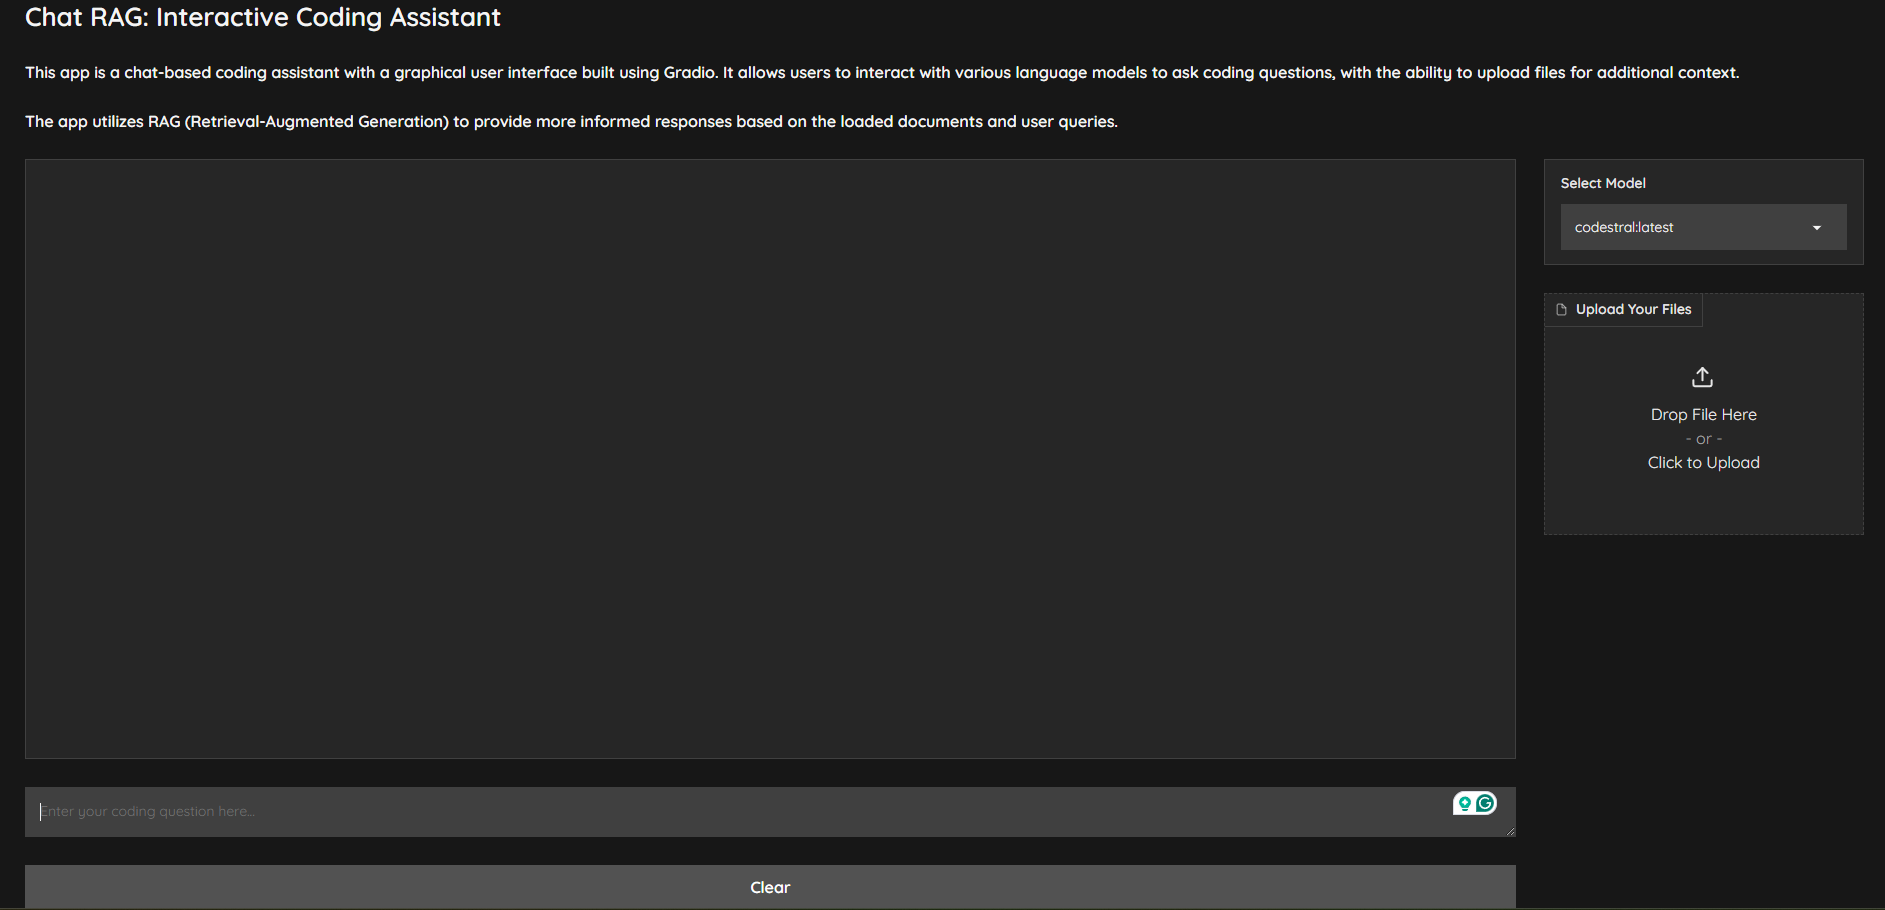
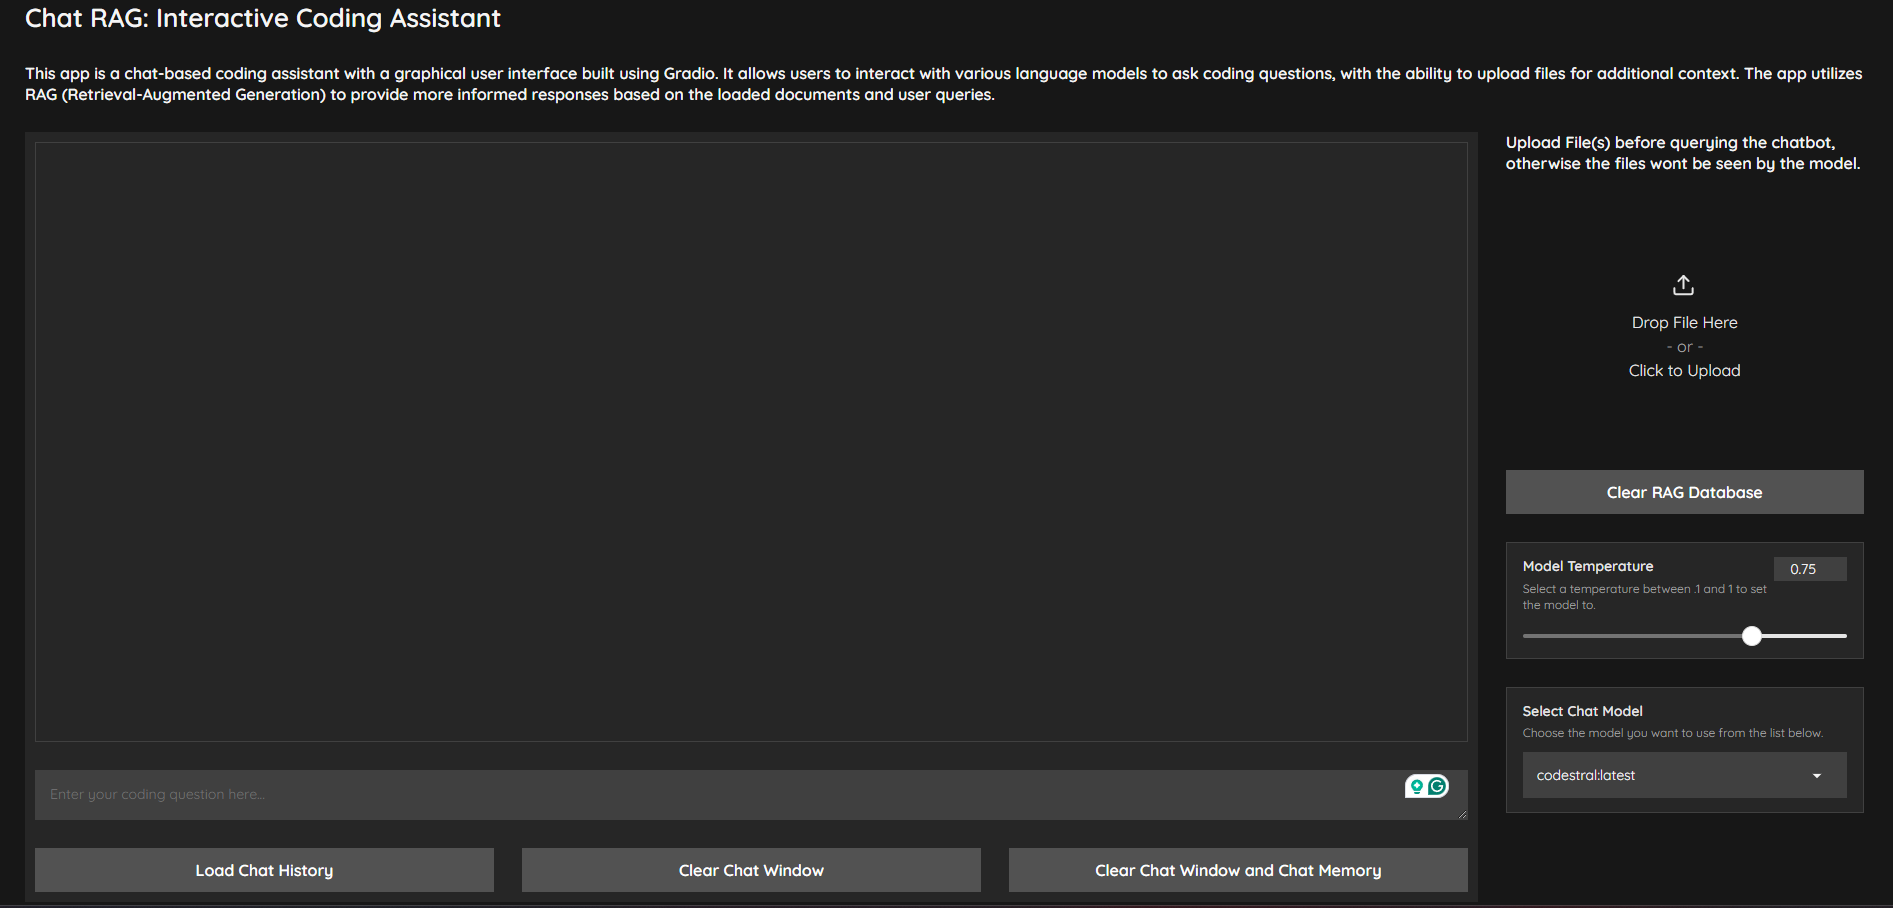
updated pics for ChatRAG and projects page

diff --git a/jf-coded/src/pages/Projects.jsx b/jf-coded/src/pages/Projects.jsx
@@ -14,7 +14,7 @@ import JFCodedImg3 from '../images/projectImages/JFCoded/Resume-Page.png';
 
 import ChatRAGImg1 from '../images/projectImages/Chat-RAG/start_state.png';
 import ChatRAGImg2 from '../images/projectImages/Chat-RAG/model_dropdown.png';
-import ChatRAGImg3 from '../images/projectImages/Chat-RAG/gemma_question.png';
+import ChatRAGImg3 from '../images/projectImages/Chat-RAG/RAGQuestion.png';
 
 import HealthGImg1 from '../images/projectImages/HealthG-Demo/ChatWindow.png';
 import HealthGImg2 from '../images/projectImages/HealthG-Demo/WIthQuestionsAsked.png';
@@ -131,7 +131,7 @@ const Projects = () => {
                     <Project key={index} {...project} />
                 ))}
             </div>
-            <h4>Last Updated 8/8/24 check my GitHub for my latest project updates. More projects coming soon!</h4>
+            <h4>Last Updated 8/11/24 check my GitHub for my latest project updates. More projects coming soon!</h4>
             <h4>Link Below!</h4>
             <div className="social-links">
                 <a href="https://www.linkedin.com/in/jacob-furtaw/" target="_blank" rel="noopener noreferrer" className="social-icon">
